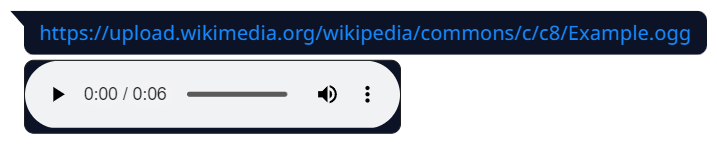
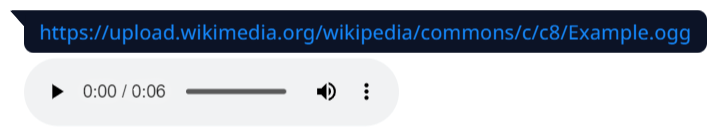
Remove attachment container background for audio and twitter embeds

diff --git a/src/style.css b/src/style.css
@@ -94,3 +94,13 @@
 	display: flex;
 	align-items: center;
 }
+
+.ts-chat-message-attachment-inner:has(.twitter-tweet) {
+    background: transparent;
+    border-color: transparent;
+}
+
+.ts-chat-message-attachment-inner:has(audio) {
+    background: transparent !important;
+    border: none !important;
+}
